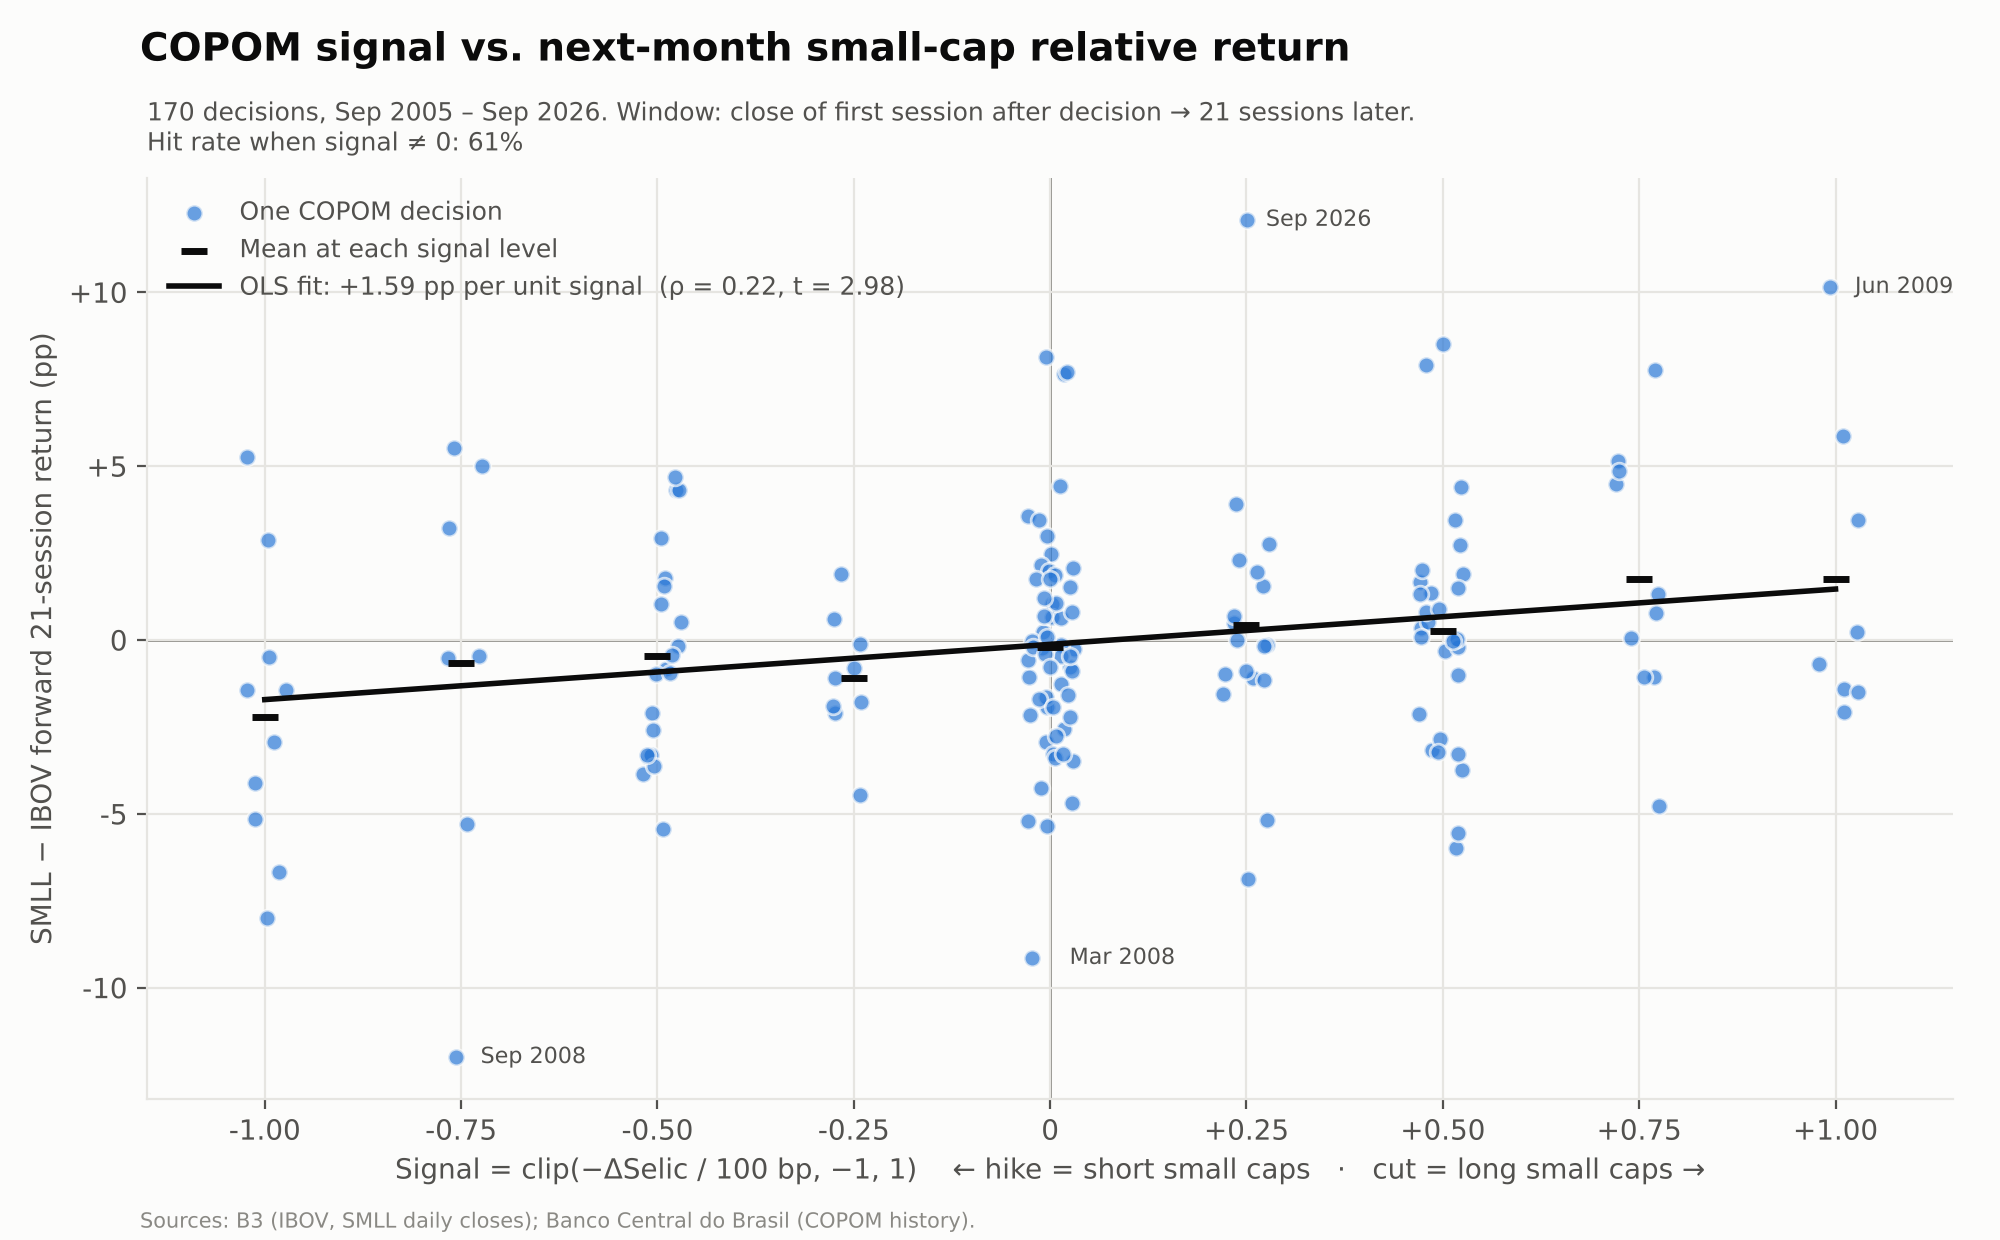
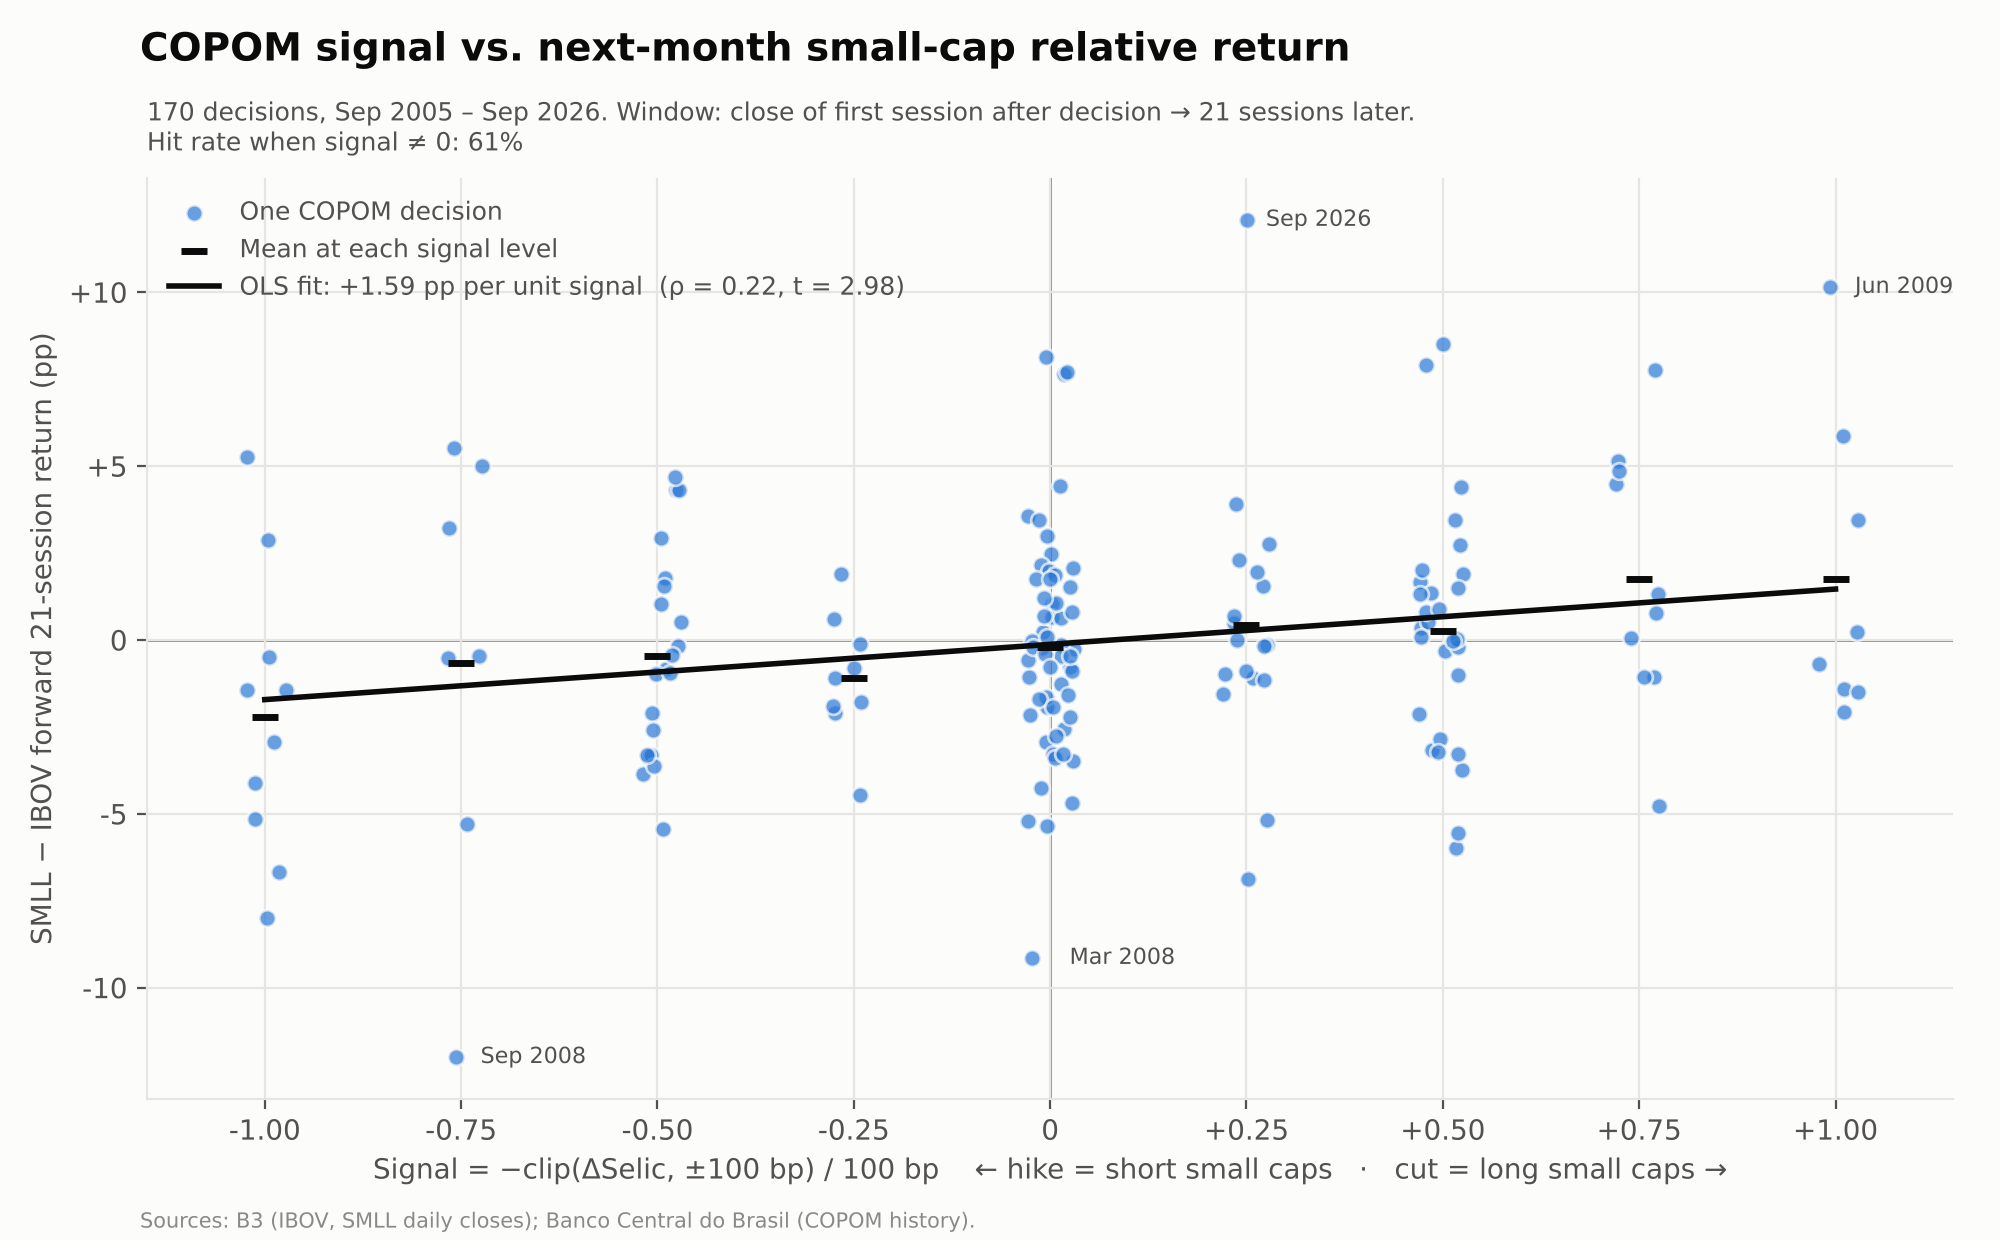
Express COPOM signal as Selic delta capped at +/-100 bp, scaled to [-1, 1]
Same values as before (capping the delta at 100 bp then dividing by 100 equals
clipping the scaled signal at 1); the code and chart labels now state the cap
in basis points.

Claude-Session: https://claude.ai/code/session_01N3abmyKdctkUukS9BHxngQ

Changed region(s): [[0.186, 0.9194, 0.868, 0.95]]

diff --git a/copom_smll/backtest.py b/copom_smll/backtest.py
@@ -2,7 +2,7 @@
 Simplified COPOM small-cap vs. large-cap backtest (no transaction costs).
 
 Rule, decided after each COPOM decision k (linear in the Selic change, bounded):
-  position = clip(-delta_bp / 100, -1, 1)
+  position = -clip(delta_bp, -100, 100) / 100, in [-1, 1]
   e.g. 100 bp+ cut -> 1.0x long SMLL / short IBOV, 25 bp cut -> 0.25x,
        50 bp hike -> 0.5x short SMLL / long IBOV, hold -> flat.
 For comparison, the sign-only rule (+1 cut, -1 hike, 0 hold) is also shown.
@@ -63,7 +63,7 @@ spread = spread.loc[pos.index]
 strat = pos * spread
 strat_sign = pos_sign * spread
 bench = spread
-NAMES = ["Linear, clipped to ±1", "Sign only (±1)", "Always long SMLL / short IBOV"]
+NAMES = ["Linear (Δ capped at ±100 bp)", "Sign only (±1)", "Always long SMLL / short IBOV"]
 curves = pd.DataFrame({n: (1 + r).cumprod() for n, r in zip(NAMES, [strat, strat_sign, bench])})
 
 
@@ -158,7 +158,7 @@ axd.yaxis.set_major_formatter(plt.FuncFormatter(lambda v, _: f"{v:.0f}"))
 s, g, b = tab.loc["Linear"], tab.loc["Sign"], tab.loc["Benchmark"]
 fig.suptitle("COPOM signal backtest: SMLL vs. IBOV spread", x=0.07, ha="left",
              fontsize=14, fontweight="bold", y=0.975)
-ax.set_title(f"Position = clip(−ΔSelic / 100 bp, −1, 1) (≥100 bp cut → 1× long small caps; hike → short; hold → flat). "
+ax.set_title(f"Position = −clip(ΔSelic, ±100 bp) / 100 bp (≥100 bp cut → 1× long small caps; hike → short; hold → flat). "
              f"Enter at close of session after decision; no costs.\n"
              f"Linear: CAGR {s.CAGR:+.1%}, Sharpe {s.Sharpe:.2f}, max DD {s['Max DD']:.0%}   ·   "
              f"Sign: CAGR {g.CAGR:+.1%}, Sharpe {g.Sharpe:.2f}, max DD {g['Max DD']:.0%}   ·   "

diff --git a/copom_smll/signal_vs_fwd21.py b/copom_smll/signal_vs_fwd21.py
@@ -1,7 +1,7 @@
 """
 Bounded COPOM signal vs. forward 21-session SMLL - IBOV relative return.
 
-Signal: clip(-delta_bp / 100, -1, 1), known after the decision-day close.
+Signal: -clip(delta_bp, -100, 100) / 100, in [-1, 1], known after the decision-day close.
 Forward return: from the close of the first session after the decision
 (the first tradable close) to the close 21 sessions later.
 Relative return = SMLL return - IBOV return over that window.
@@ -79,7 +79,7 @@ ax.set_xlim(-1.15, 1.15)
 ax.set_xticks(np.arange(-1, 1.01, 0.25))
 ax.xaxis.set_major_formatter(plt.FuncFormatter(lambda v, _: f"{v:+.2f}" if v else "0"))
 ax.yaxis.set_major_formatter(plt.FuncFormatter(lambda v, _: f"{v:+.0f}" if v else "0"))
-ax.set_xlabel("Signal = clip(−ΔSelic / 100 bp, −1, 1)    ← hike = short small caps   ·   cut = long small caps →")
+ax.set_xlabel("Signal = −clip(ΔSelic, ±100 bp) / 100 bp    ← hike = short small caps   ·   cut = long small caps →")
 ax.set_ylabel("SMLL − IBOV forward 21-session return (pp)")
 ax.legend(loc="upper left", frameon=False, fontsize=9, labelcolor=INK2)
 

diff --git a/copom_smll/copom_signal.py b/copom_smll/copom_signal.py
@@ -1,9 +1,16 @@
-"""COPOM signal: linear in the Selic change, bounded to [-1, 1]."""
+"""COPOM signal: linear in the Selic change, deltas capped at +/-100 bp.
+
+    capped_delta = clip(delta_bp, -100, +100)
+    signal       = -capped_delta / 100          -> in [-1, 1]
+
+Cut -> positive signal (long small caps), hike -> negative, hold -> 0.
+E.g. -25 bp -> +0.25, -150 bp -> +1.00, +50 bp -> -0.50.
+"""
 import numpy as np
 
-SCALE_BP = 100.0  # a 100 bp move (or larger) is a full-size signal
+CAP_BP = 100.0
 
 
 def selic_signal(delta_bp):
-    """-delta_bp / 100, clipped to [-1, 1]. Cut -> positive (long small caps)."""
-    return np.clip(-np.asarray(delta_bp, dtype=float) / SCALE_BP, -1.0, 1.0) + 0.0  # no -0.0
+    capped = np.clip(np.asarray(delta_bp, dtype=float), -CAP_BP, CAP_BP)
+    return -capped / CAP_BP + 0.0  # + 0.0 turns -0.0 into 0.0

diff --git a/copom_smll/signal_deciles.py b/copom_smll/signal_deciles.py
@@ -70,7 +70,7 @@ ax.set_title(f"{len(ev)} decisions, {ev.date.min():%b %Y} – {ev.date.max():%b 
              f"D10 − D1 = {spread:+.2f} pp.\nSignal has only 9 distinct values: ties at decile edges are split "
              f"by decision date, so D4–D6 are all holds and differ only by period.",
              loc="left", fontsize=8.5, color=INK2, pad=10)
-fig.text(0.07, 0.01, "Signal = clip(−ΔSelic / 100 bp, −1, 1). Window: close of first session after decision → "
+fig.text(0.07, 0.01, "Signal = −clip(ΔSelic, ±100 bp) / 100 bp, in [−1, 1]. Window: close of first session after decision → "
          "21 sessions later. Sources: B3, Banco Central do Brasil.", fontsize=7.5, color=MUTED)
 fig.tight_layout(rect=(0, 0.02, 1, 1))
 out = HERE / "signal_deciles.png"
